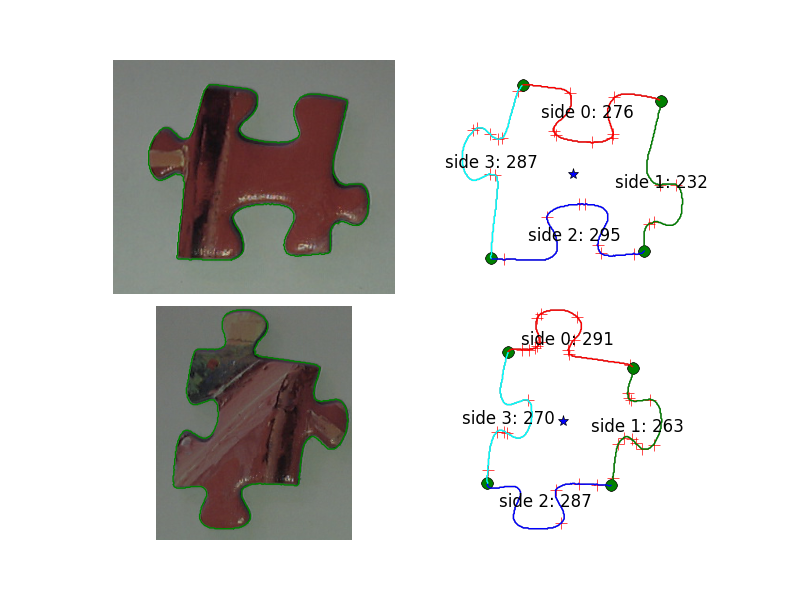
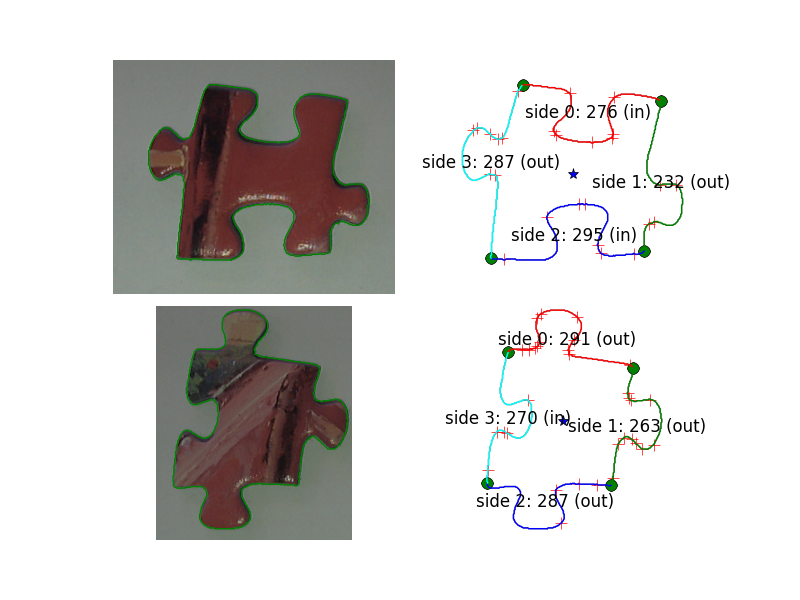
classifies side types

diff --git a/quandry/piece.py b/quandry/piece.py
@@ -32,6 +32,8 @@ class JigsawPiece(object):
     self.corners = []
     self.sides = []
     self.side_lengths = []
+    self.mean_side_points = []
+    self.side_types = []
 
   def segment(self, low_threshold=50, high_threshold=110, contour_level=0.5):
     """Finds the piece's outline via region-based segmentation.
@@ -192,3 +194,24 @@ class JigsawPiece(object):
           continue
         length += util.distance(coord, side[coord_index - 1])
       self.side_lengths.append(length)
+
+  def find_side_types(self, percent_diff_threshold=0.08):
+    """Detect if each side is in, out or flat."""
+    for side in self.sides:
+      mean_side_point = [
+        np.average(side[:, 0]), np.average(side[:, 1])]
+      self.mean_side_points.append(mean_side_point)
+      corner_a, corner_b = side[0], side[-1]
+      mean_corner_point = [np.average((corner_a[0], corner_b[0])),
+                           np.average((corner_a[1], corner_b[1]))]
+      side_point_dist = util.distance(self.center, mean_side_point)
+      corner_point_dist = util.distance(self.center, mean_corner_point)
+      percent_diff = (
+        abs(side_point_dist - corner_point_dist) / side_point_dist)
+      if percent_diff < percent_diff_threshold:
+        side_type = 'flat'
+      elif side_point_dist > corner_point_dist:
+        side_type = 'out'
+      else:
+        side_type = 'in'
+      self.side_types.append(side_type)

diff --git a/run.py b/run.py
@@ -114,14 +114,22 @@ for index, filepath in enumerate(filepaths):
   # Get length of each side and label.
   try:
     piece.find_side_lengths()
+  except:
+    print 'could not find side lengths for "%s"' % filepath
+    continue
+
+  # Classify each side's type and label.
+  try:
+    piece.find_side_types()
     for index, side in enumerate(piece.sides):
       length = piece.side_lengths[index]
-      x, y = (np.average(side[:, 0]), np.average(side[:, 1]))
-      label = 'side %s: %0.0f' % (index, length)
+      side_type = piece.side_types[index]
+      x, y = piece.mean_side_points[index]
+      label = 'side %s: %0.0f (%s)' % (index, length, side_type)
       ax1.text(x, y, label, horizontalalignment='center',
                verticalalignment='center')
   except:
-    print 'could not find side lengths for "%s"' % filepath
+    print 'could not find side types for "%s"' % filepath
     continue
 
 plt.show()
